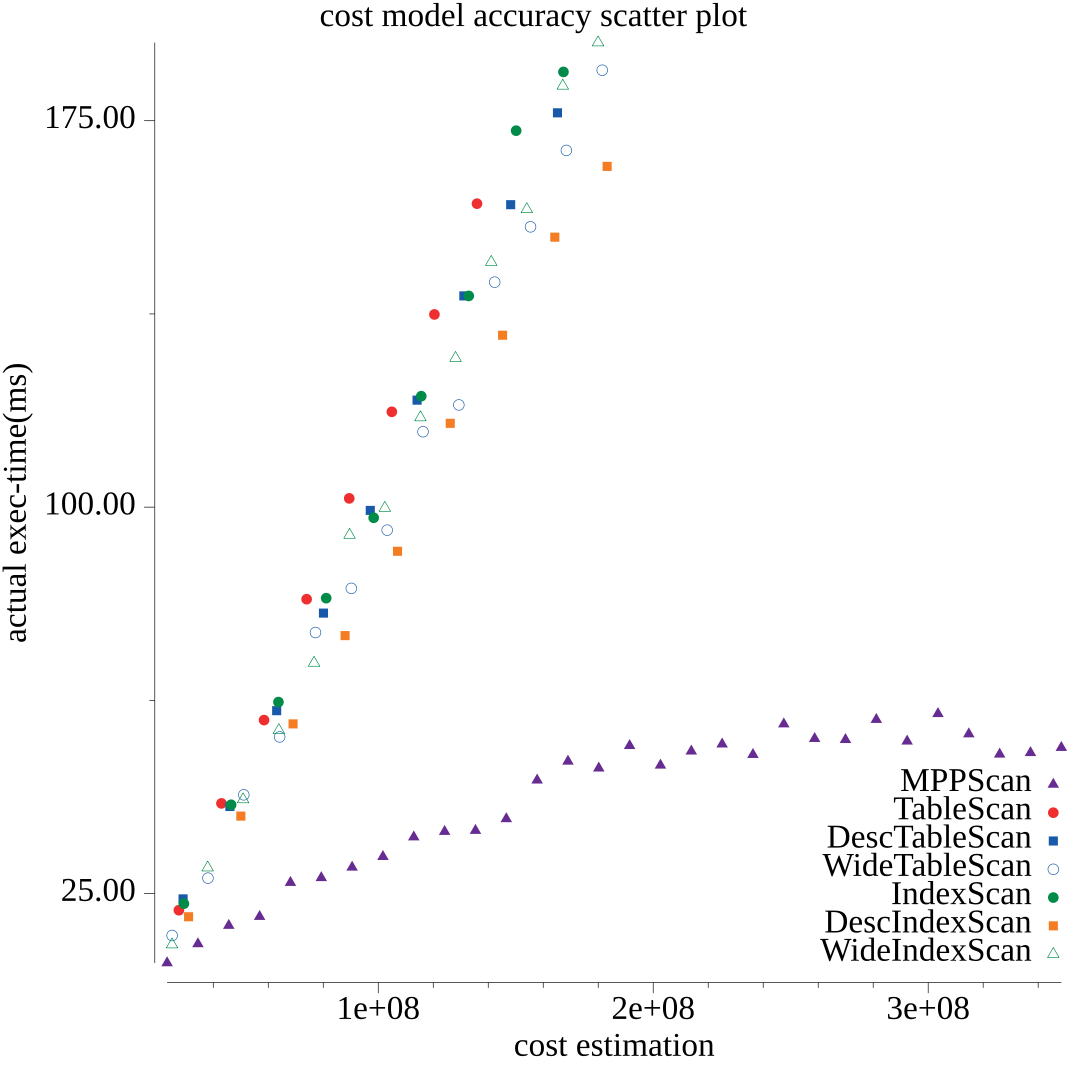
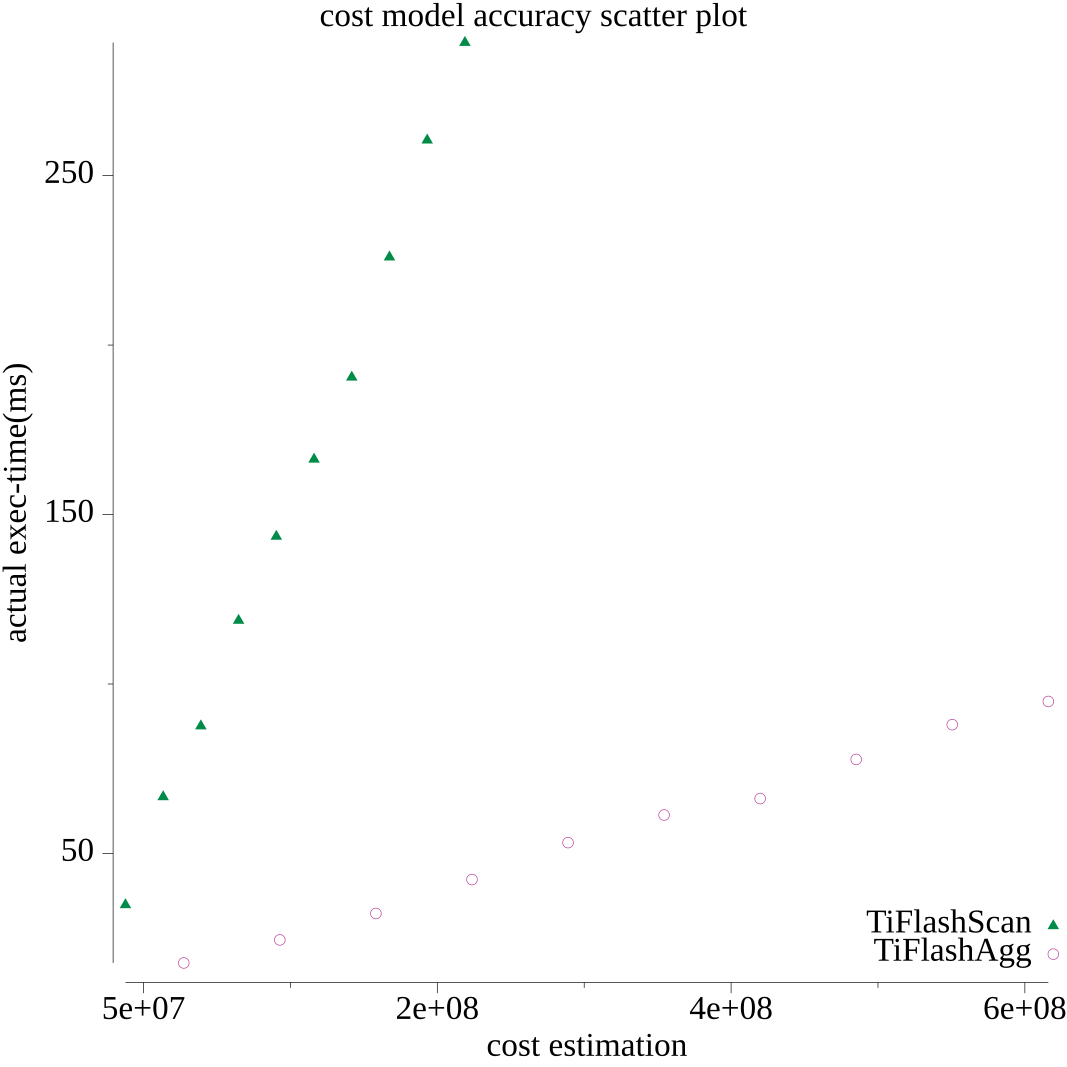
fixup

diff --git a/cost/costcali.go b/cost/costcali.go
@@ -57,12 +57,12 @@ func CostCalibration() {
 
 	whiteList := []string{
 		// TiKV Plans
-		"TableScan",
-		"IndexScan",
-		"WideTableScan",
-		"WideIndexScan",
-		"DescTableScan",
-		"DescIndexScan",
+		//"TableScan",
+		//"IndexScan",
+		//"WideTableScan",
+		//"WideIndexScan",
+		//"DescTableScan",
+		//"DescIndexScan",
 		//"StreamAgg",
 		//"HashAgg",
 		//"Sort",
@@ -73,7 +73,8 @@ func CostCalibration() {
 
 		// TiFlash Plans
 		"TiFlashScan",
-		"MPPScan",
+		"TiFlashAgg",
+		//"MPPScan",
 		//"MPPTiDBAgg",
 		//"MPP2PhaseAgg",
 		//"MPPHJ",
@@ -84,7 +85,10 @@ func CostCalibration() {
 	// ====== Manual Calibration ======
 	// (CPU, CopCPU, Net, Scan, DescScan, Mem, Seek, TiFlashScan)
 	// (30,	30,		4,		100,	150,		0,		1.2*1e7, 	10)
-	recalculateAndDraw(rs, &CostFactors{30, 30, 4, 100, 150, 0, 1.2 * 1e7, 15})
+	recalculateAndDraw(rs,
+		&CostFactors{30, 30, 4, 100, 150, 0, 1.2 * 1e7, 10}, // for TiDB Plans
+		&CostFactors{1, 1, 4, 100, 150, 0, 1.2 * 1e7, 10},   // for TiFlash Plans
+		&CostFactors{30, 30, 4, 100, 150, 0, 1.2 * 1e7, 10}) // for MPP Plans
 	//recalculateAndDraw(rs, nil)
 
 	// ====== Automatic Regression ======
@@ -94,10 +98,17 @@ func CostCalibration() {
 	//fmt.Println(ret.String())
 }
 
-func recalculateAndDraw(rs Records, factors *CostFactors) {
+func recalculateAndDraw(rs Records, fs4TiDB, fs4TiFlash, fs4MPP *CostFactors) {
 	for i := range rs {
-		if factors != nil {
-			rs[i].Cost = rs[i].CostWeights.CalCost(*factors)
+		fs := fs4TiDB
+		if strings.Contains(rs[i].Label, "TiFlash") {
+			fs = fs4TiFlash
+		} else if strings.Contains(rs[i].Label, "TiFlash") {
+			fs = fs4MPP
+		}
+		if fs != nil {
+			rs[i].Cost = rs[i].CostWeights.CalCost(*fs)
+			fmt.Println("[record]", rs[i].Label, rs[i].SQL, rs[i].CostWeights, fs, rs[i].Cost, rs[i].TimeMS)
 		}
 	}
 

diff --git a/cost/eval_synthetic.go b/cost/eval_synthetic.go
@@ -297,7 +297,7 @@ func genSyntheticEvalTiFlashAgg(ins tidb.Instance, scale float64, n int) (qs Que
 	for i := 0; i < n; i++ {
 		l, r := randRange(minA, maxA, i, n)
 		qs = append(qs, Query{
-			PreSQLs: []string{`set @@session.tidb_allow_mpp=0`, "set @@session.tidb_enforce_mpp=0"},
+			PreSQLs: []string{`set @@session.tidb_allow_batch_cop=0`, `set @@session.tidb_allow_mpp=0`, "set @@session.tidb_enforce_mpp=0"},
 			SQL:     fmt.Sprintf(`SELECT /*+ read_from_storage(tiflash[t]) */ count(*) FROM t WHERE a>=%v AND a<=%v`, l, r),
 			Label:   `TiFlashAgg`,
 			TypeID:  tid,
